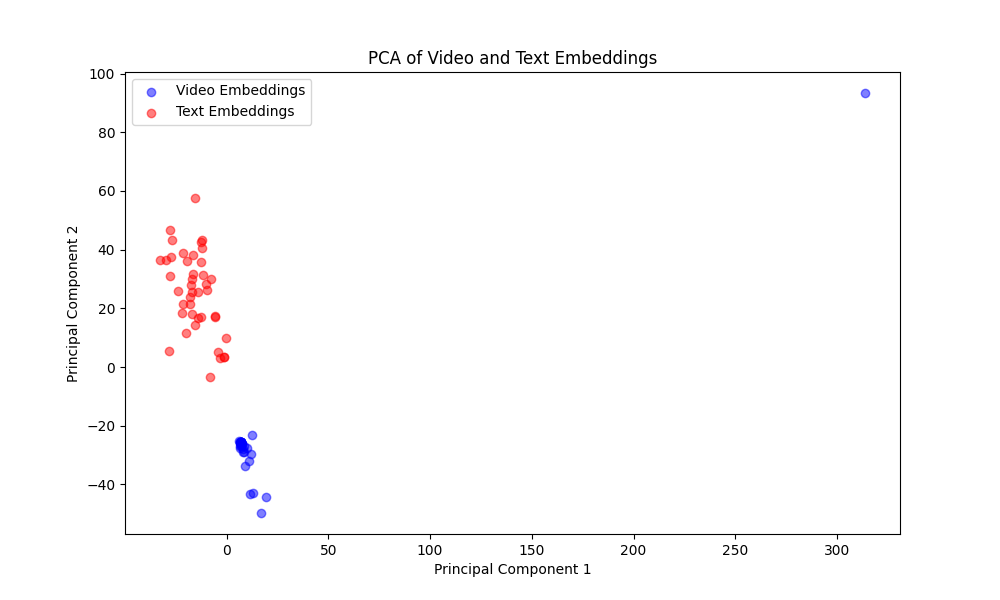
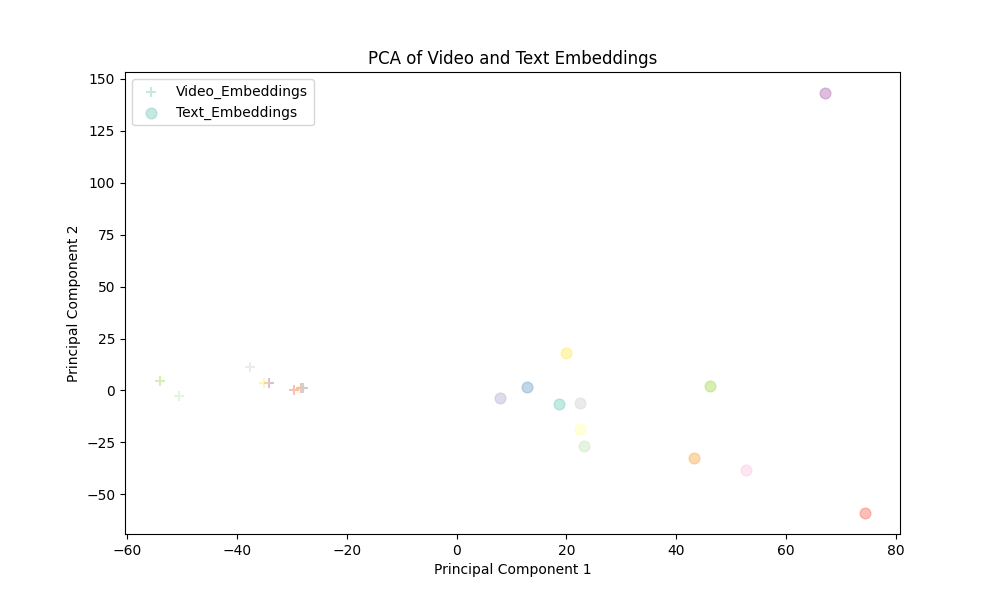
Add color to the PCA and check pairs

diff --git a/visualization/pca.py b/visualization/pca.py
@@ -5,21 +5,27 @@ import torch as th
 import numpy as np
 import os
 
-def generate_shaded_colors(base_color_rgb, num_variants):
+
+def check_pairs(reduced_video_embeddings, reduced_text_embeddings):
     """
-    Generates a list of shaded colors based on a base RGB color.
+        Checks the pairing accuracy between video and text embeddings by finding
+        the nearest text embedding for each video embedding and see whether it is the corresponding text of the video.
 
-    Parameters:
-    - base_color_rgb (tuple): A tuple representing the base color in RGB format (e.g., (1, 0, 0) for red).
-    - num_variants (int): The number of shaded color variants to generate.
+        Prints the accuracy of correct pairings and the indices of video embeddings that are incorrectly paired.
+        """
+    distances = np.linalg.norm(reduced_video_embeddings[:, np.newaxis, :] - reduced_text_embeddings[np.newaxis, :, :],
+                               axis=2)
 
-    Returns:
-    - list: A list of color variants, from darker to lighter shades of the base color.
-    """
-    return [(np.array(base_color_rgb) * shade).tolist()
-            for shade in np.linspace(0.4, 1, num_variants)]
+    nearest_text_indices = np.argmin(distances, axis=1)
+    correct_pairs = nearest_text_indices == np.arange(len(reduced_video_embeddings))
 
-def plot_embeddings(video_embeddings, text_embeddings, directory_name='plots', file_name='embeddings_plot.png'):
+    accuracy = np.mean(correct_pairs)
+    print(f"Pairing accuracy: {accuracy * 100:.2f}%")
+
+    incorrect_pair_indices = np.where(~correct_pairs)[0]
+    print(f"Indices of incorrectly paired video embeddings: {incorrect_pair_indices}")
+
+def plot_embeddings(video_embeddings, text_embeddings, stats_info = None, directory_name='plots', file_name='embeddings_plot.png'):
     """
     Plots 2D PCA visualizations of video and text embeddings, saving the plot to a file.
 
@@ -40,6 +46,8 @@ def plot_embeddings(video_embeddings, text_embeddings, directory_name='plots', f
     if isinstance(text_embeddings, th.Tensor):
         text_embeddings = text_embeddings.numpy()
 
+    num_samples = len(video_embeddings)
+
     combined_embeddings = np.vstack((video_embeddings, text_embeddings))
     pca = PCA(n_components=2)
     reduced_embeddings = pca.fit_transform(combined_embeddings)
@@ -48,18 +56,26 @@ def plot_embeddings(video_embeddings, text_embeddings, directory_name='plots', f
     reduced_text_embeddings = reduced_embeddings[len(video_embeddings):]
 
     plt.figure(figsize=(10, 6))
-    plt.scatter(reduced_video_embeddings[:, 0], reduced_video_embeddings[:, 1], c='blue', label='Video Embeddings',
-                alpha=0.5)
-    plt.scatter(reduced_text_embeddings[:, 0], reduced_text_embeddings[:, 1], c='red', label='Text Embeddings',
-                alpha=0.5)
+
+    # cmap = get_cmap('inferno')
+    # colors = [cmap(i) for i in np.linspace(0, 1, 12)]
+    #
+    cmap = plt.get_cmap('Set3')
+    colors = [cmap(i) for i in range(num_samples)]
+
+    for i in range(num_samples):
+        plt.scatter(reduced_video_embeddings[i, 0], reduced_video_embeddings[i, 1],
+                   color=colors[i], marker='+', s=100, label = f"Video_Embeddings" if i == 0 else "", alpha = 1)
+        plt.scatter(reduced_text_embeddings[i, 0], reduced_text_embeddings[i, 1],
+                   color=colors[i], marker='o', s=100, label = f"Text_Embeddings" if i == 0 else "", alpha = 1)
 
     # num_samples = len(video_embeddings)
     # colors = plt.cm.jet(np.linspace(0, 1, num_samples))
-    #
-    # plt.figure(figsize=(10, 6))
-    # for i in range(num_samples):
-    #     plt.scatter(reduced_embeddings[i, 0], reduced_embeddings[i, 1], color=colors[i], label=f'Sample {i+1} Video', alpha=0.5)
-    #     plt.scatter(reduced_embeddings[num_samples + i, 0], reduced_embeddings[num_samples + i, 1], color=colors[i], label=f'Sample {i+1} Text', alpha=0.5)
+    if stats_info != None:
+        plt.text(0.05, 0.95, stats_info,
+                 verticalalignment='top', horizontalalignment='left',
+                 transform=plt.gca().transAxes,
+                 color='black', fontsize=10)
 
     plt.title('PCA of Video and Text Embeddings')
     plt.xlabel('Principal Component 1')
@@ -70,10 +86,11 @@ def plot_embeddings(video_embeddings, text_embeddings, directory_name='plots', f
     save_path = os.path.join(directory_name, file_name)
     plt.savefig(save_path)
     print(f"Plot saved to {save_path}")
+    check_pairs(reduced_video_embeddings, reduced_text_embeddings)
     plt.close()
 
 
-def plot_embeddings_3d(video_embeddings, text_embeddings, directory_name='plots', file_name='3d_embeddings_plot.png'):
+def plot_embeddings_3d(video_embeddings, text_embeddings, stats_info = None, directory_name='plots', file_name='3d_embeddings_plot.png'):
     """
     Plots 3D PCA visualizations of video and text embeddings, saving the plot to a file.
 
@@ -103,26 +120,20 @@ def plot_embeddings_3d(video_embeddings, text_embeddings, directory_name='plots'
     reduced_video_embeddings = reduced_embeddings[:len(video_embeddings)]
     reduced_text_embeddings = reduced_embeddings[len(video_embeddings):]
 
-    # blue_rgb = (0, 0, 1)
-    # red_rgb = (1, 0, 0)
-    #
-    # video_colors = generate_shaded_colors(blue_rgb, num_samples)
-    # text_colors = generate_shaded_colors(red_rgb, num_samples)
+    # cmap = get_cmap('inferno')
+    # colors = [cmap(i) for i in np.linspace(0, 1, 12)]
 
-    fig = plt.figure(figsize=(10, 7))
+    cmap = plt.get_cmap('Set3')
+    colors = [cmap(i) for i in range(num_samples)]
+
+    fig = plt.figure()
     ax = fig.add_subplot(111, projection='3d')
 
-    ax.scatter(reduced_video_embeddings[:, 0], reduced_video_embeddings[:, 1], reduced_video_embeddings[:, 2], c='blue',
-               label='Video Embeddings')
-    ax.scatter(reduced_text_embeddings[:, 0], reduced_text_embeddings[:, 1], reduced_text_embeddings[:, 2], c='red',
-               label='Text Embeddings')
-
-    # for i, (embed, color) in enumerate(zip(reduced_embeddings[:num_samples], video_colors)):
-    #     ax.scatter(embed[0], embed[1], embed[2], color=color, label=f'Video Sample {i + 1}' if i == 0 else "",
-    #                alpha=0.5)
-    #
-    # for i, (embed, color) in enumerate(zip(reduced_embeddings[num_samples:], text_colors)):
-    #     ax.scatter(embed[0], embed[1], embed[2], color=color, label=f'Text Sample {i + 1}' if i == 0 else "", alpha=0.5)
+    for i in range(num_samples):
+        ax.scatter(reduced_video_embeddings[i, 0], reduced_video_embeddings[i, 1], reduced_video_embeddings[i, 2],
+                   color=colors[i], marker='+', s=60, label = f"Video_Embeddings" if i == 0 else "", alpha = 1)
+        ax.scatter(reduced_text_embeddings[i, 0], reduced_text_embeddings[i, 1], reduced_text_embeddings[i, 2],
+                   color=colors[i], marker='o', s=60, label = f"Text_Embeddings" if i == 0 else "", alpha = 1)
 
     ax.legend()
     ax.set_title('3D PCA of Video and Text Embeddings')
@@ -130,7 +141,14 @@ def plot_embeddings_3d(video_embeddings, text_embeddings, directory_name='plots'
     ax.set_ylabel('Principal Component 2')
     ax.set_zlabel('Principal Component 3')
 
+    if stats_info != None:
+        ax.text2D(0.05, 0.95, stats_info,
+                 verticalalignment='top', horizontalalignment='left',
+                 transform=plt.gca().transAxes,
+                 color='black', fontsize=10)
+
     save_path = os.path.join(directory_name, file_name)
     plt.savefig(save_path)
     print(f"Plot saved to {save_path}")
+    check_pairs(reduced_video_embeddings, reduced_text_embeddings)
     plt.close()

diff --git a/visualization/task1.py b/visualization/task1.py
@@ -243,7 +243,7 @@ def list_webm_files(folder_path):
 # test_frame = preprocess_human_demo(test_frame)
 # video = th.from_numpy(test_frame)
 # print(test_frame.shape)
-video_paths = list_webm_files('../20bn-something-something-v2')
+video_paths = list_webm_files('vidz4jesse')
 #print(video_paths)
 s3d = S3D('../s3d_dict.npy', 512)
 s3d.load_state_dict(th.load('../s3d_howto100m.pth'))
@@ -251,12 +251,37 @@ s3d.eval()
 video_embeddings, text_embeddings = Embedding(s3d, video_paths)
 #print(video_embeddings.shape, text_embeddings.shape)
 l2_distances = th.norm(text_embeddings - video_embeddings, p=2, dim=1)
+similarity_scores = th.matmul(text_embeddings, video_embeddings.t())
 #print(l2_distances.shape)
 mean_distance = th.mean(l2_distances)
 std_distance = th.std(l2_distances)
+min_distance = th.min(l2_distances)
+max_distance = th.max(l2_distances)
 
+mean_score = th.mean(similarity_scores)
+min_score = th.min(similarity_scores)
+max_score = th.max(similarity_scores)
+std_score = th.std(similarity_scores)
+
+print("Mean similarity score:", mean_score.item())
+print("Min similarity score:", min_score.item())
+print("Max similarity score:", max_score.item())
+print("STD of similarity scores:", std_score.item())
 print("Mean L2 Distance:", mean_distance.item())
 print("STD L2 Distance:", std_distance.item())
+print("Min L2 Distance:", min_distance.item())
+print("Max L2 Distance:", max_distance.item())
+stats_info = (
+    f"Mean similarity score: {mean_score.item():.2f}\n"
+    f"Min similarity score: {min_score.item():.2f}\n"
+    f"Max similarity score: {max_score.item():.2f}\n"
+    f"STD of similarity scores: {std_score.item():.2f}\n"
+    f"Mean L2 Distance: {mean_distance.item():.2f}\n"
+    f"STD L2 Distance: {std_distance.item():.2f}\n"
+    f"Min L2 Distance: {min_distance.item():.2f}\n"
+    f"Max L2 Distance: {max_distance.item():.2f}"
+)
 
-plot_embeddings_3d(video_embeddings, text_embeddings, directory_name='plots', file_name='pca_plot_3d_3.png')
-plot_embeddings(video_embeddings, text_embeddings,directory_name='plots', file_name='pca_plot_3.png')
+
+plot_embeddings(video_embeddings, text_embeddings, directory_name='plots', file_name='pca_plot_4.png')
+plot_embeddings_3d(video_embeddings, text_embeddings, directory_name='plots', file_name='pca_plot_3d_4.png')
